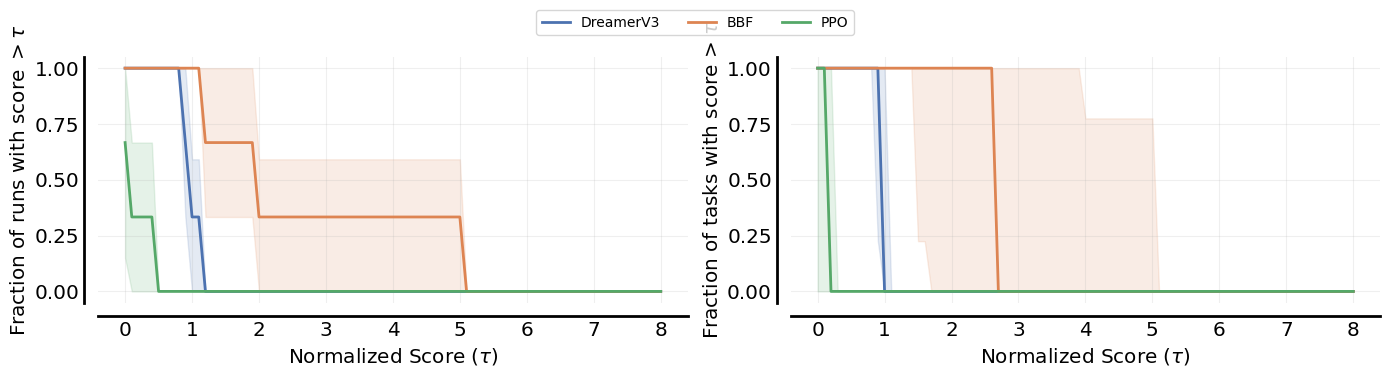
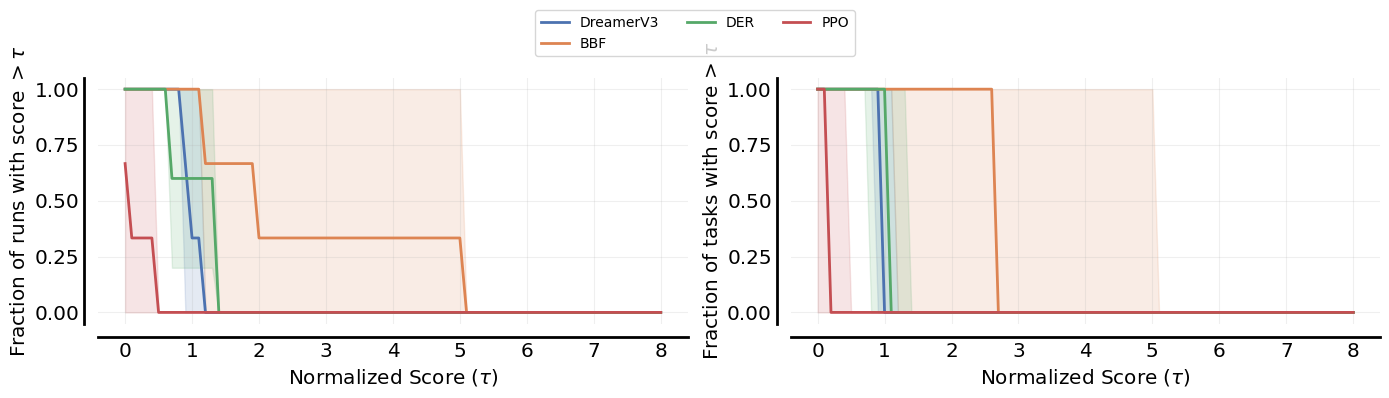
Add DER to the atari100k comparison, mean/std summary rows, drop template-v2
The W&B `template` tag now covers exactly the runs behind the published
benchmark numbers: the superseded 2026-07-31/08-01 sweep (including a broken
DreamerV3/cheetah-run batch) had its tag removed, and `template-v2` is fully
retired from docs and script examples now that every tool already defaults to
`template`.

- scripts/update_algo_results.py: each algorithm README's results table now
  gets a **Mean ± Std** row per (environment, config) group.
- scripts/make_figures.sh: add DER (exp_name `der`) to the atari100k
  comparison group; patch rliable's fixed aggregate-plot row height so a 4th
  algorithm's y-axis labels stop overlapping.
- Refresh algo READMEs, docs/evaluation.md and docs/figures/ from the current
  `template`-tagged runs; add the Atari-100k aggregate figure to README.md.

diff --git a/scripts/update_algo_results.py b/scripts/update_algo_results.py
@@ -21,6 +21,7 @@ from __future__ import annotations
 import argparse
 import os
 import re
+import statistics
 import sys
 from dataclasses import dataclass
 from pathlib import Path
@@ -82,6 +83,7 @@ class ResultRow:
     seed: int | None
     frames: int | None
     eval_return: str
+    eval_return_value: float | None
     notes: str
 
 
@@ -444,6 +446,7 @@ def parse_run(run, registry: list[ExperimentSpec]) -> ResultRow | None:
         seed=trainer_cfg.get("seed"),
         frames=trainer_cfg.get("total_frames"),
         eval_return=format_return(eval_return),
+        eval_return_value=eval_return,
         notes=notes or "—",
     )
 
@@ -454,6 +457,20 @@ def row_to_markdown(row: ResultRow) -> str:
     return (
         f"| {run_cell} | {row.environment} | `{row.config}` | {seed} | "
         f"{format_int(row.frames)} | {row.eval_return} | {row.notes} |"
+    )
+
+
+def summary_row_markdown(environment: str, config: str, values: list[float]) -> str:
+    """A ``**Mean ± Std**`` row summarising one (environment, config) group.
+
+    Population std (``ddof=0``), matching the convention used for the
+    cross-algorithm figures in ``docs/evaluation.md`` / ``make_figures.sh``.
+    """
+    mean = statistics.fmean(values)
+    std = statistics.pstdev(values)
+    return (
+        f"| **Mean ± Std** | {environment} | `{config}` | — | — | "
+        f"**{format_return(mean)} ± {format_return(std)}** | n={len(values)} seeds |"
     )
 
 
@@ -468,7 +485,27 @@ def build_table(rows: list[ResultRow]) -> str:
         )
 
     sorted_rows = sorted(rows, key=lambda r: (r.environment, r.config, r.run_name))
-    body = "\n".join(row_to_markdown(r) for r in sorted_rows)
+
+    lines: list[str] = []
+    group_key: tuple[str, str] | None = None
+    group_values: list[float] = []
+
+    def flush_summary() -> None:
+        if group_key is not None and len(group_values) >= 2:
+            lines.append(summary_row_markdown(*group_key, group_values))
+
+    for row in sorted_rows:
+        key = (row.environment, row.config)
+        if key != group_key:
+            flush_summary()
+            group_key = key
+            group_values = []
+        lines.append(row_to_markdown(row))
+        if row.eval_return_value is not None:
+            group_values.append(row.eval_return_value)
+    flush_summary()
+
+    body = "\n".join(lines)
     return f"{TABLE_HEADER}\n{TABLE_SEPARATOR}\n{body}"
 
 

diff --git a/tests/test_update_algo_results.py b/tests/test_update_algo_results.py
@@ -176,12 +176,60 @@ def test_row_to_markdown():
         seed=42,
         frames=500_100,
         eval_return="500.0",
+        eval_return_value=500.0,
         notes="—",
     )
     md = row_to_markdown(row)
     assert "[dqn_cartpole_2025-01-01](" in md
     assert "`experiment=dqn/gym`" in md
     assert "500,100" in md
+
+
+def _row(environment, config, seed, value, run_name=None) -> ResultRow:
+    return ResultRow(
+        run_name=run_name or f"run-{environment}-{config}-{seed}",
+        run_url="https://wandb.ai/LatentLab/torchrl-hydra-template/runs/abc123",
+        environment=environment,
+        config=config,
+        seed=seed,
+        frames=100_000,
+        eval_return=str(value),
+        eval_return_value=value,
+        notes="—",
+    )
+
+
+def test_build_table_adds_mean_std_summary_row_per_group():
+    rows = [
+        _row("Jamesbond-v5", "experiment=rainbow/atari100k", 1, 243.0),
+        _row("Jamesbond-v5", "experiment=rainbow/atari100k", 2, 232.0),
+        _row("Jamesbond-v5", "experiment=rainbow/atari100k", 3, 221.0),
+        _row("Jamesbond-v5", "experiment=rainbow/atari100k", 4, 267.5),
+        _row("Jamesbond-v5", "experiment=rainbow/atari100k", 5, 240.5),
+    ]
+    table = build_table(rows)
+    assert "**Mean ± Std**" in table
+    assert "240.8 ± 15.4" in table
+    assert "n=5 seeds" in table
+
+
+def test_build_table_summary_row_is_per_environment_config_group():
+    rows = [
+        _row("Jamesbond-v5", "experiment=ppo/ale", 1, 30.0),
+        _row("Jamesbond-v5", "experiment=ppo/ale", 2, 40.0),
+        _row("cheetah-run", "experiment=ppo/dmc", 1, 400.0),
+        _row("cheetah-run", "experiment=ppo/dmc", 2, 600.0),
+    ]
+    table = build_table(rows)
+    assert table.count("**Mean ± Std**") == 2
+    assert "35.0 ± 5.00" in table
+    assert "500.0 ± 100.0" in table
+
+
+def test_build_table_skips_summary_row_for_single_run_group():
+    rows = [_row("CartPole-v1", "experiment=dqn/gym", 1, 500.0)]
+    table = build_table(rows)
+    assert "**Mean ± Std**" not in table
 
 
 def test_replace_results_table():

diff --git a/docs/evaluation.md b/docs/evaluation.md
@@ -122,7 +122,7 @@ DreamerV3 on DMC cheetah-run — at three seeds each, load-balanced across GPUs.
 ./scripts/run_benchmarks.sh --smoke             # tiny budgets; validates every spec
 ./scripts/run_benchmarks.sh --gpus 2,3          # the real sweep
 ./scripts/run_benchmarks.sh --only bbf,tdmpc2   # subset by job name
-./scripts/run_benchmarks.sh --tag template-v2   # own W&B tag for this sweep
+./scripts/run_benchmarks.sh --tag my-sweep      # own W&B tag for this sweep
 ```
 
 Use `--tag` whenever the evaluation protocol has changed since the last sweep.
@@ -154,7 +154,7 @@ env).
 ```shell
 ./scripts/make_figures.sh                                    # every group, W&B tag `template`
 ./scripts/make_figures.sh --group atari100k                  # one comparison group
-./scripts/make_figures.sh --tag template-v2 --full --publish # regenerate docs/figures/
+./scripts/make_figures.sh --full --publish                   # regenerate docs/figures/
 ```
 
 `--full` matters: by default the script runs with openrlbenchmark's own
@@ -182,35 +182,38 @@ sweep's runs together (see [Multi-GPU benchmark sweeps](#multi-gpu-benchmark-swe
 
 ## Benchmark results
 
-Three seeds per algorithm, produced by `./scripts/run_benchmarks.sh --gpus 2,3
---tag template-v2` and plotted with `./scripts/make_figures.sh --tag
-template-v2 --full --publish`. Shaded bands are ±1 std over seeds; every
+Three seeds per algorithm (five for DER), produced by `./scripts/run_benchmarks.sh
+--gpus 2,3` and plotted with `./scripts/make_figures.sh --full --publish` (both
+default to the `template` W&B tag). Shaded bands are ±1 std over seeds; every
 number is the mean of the last 100 logged evaluation episodes.
 
 **Read these as a template smoke test, not as a benchmark claim.** Each suite
 here is a *single* task, so rliable's median / IQM / mean necessarily coincide
 (visible below) and the performance profile is close to degenerate — those
-panels only start carrying information across many tasks. Three seeds on one
-task is also far too few to separate implementations that land close together.
+panels only start carrying information across many tasks. A handful of seeds
+on one task is also far too few to separate implementations that land close
+together.
 
 ### Atari-100k — Jamesbond
 
-|              | DreamerV3      | BBF             | PPO           |
-|:-------------|:---------------|:----------------|:--------------|
-| Jamesbond-v5 | 385.33 ± 38.35 | 825.83 ± 309.25 | 25.67 ± 19.15 |
+|              | DreamerV3      | BBF             | DER            | PPO           |
+|:-------------|:---------------|:----------------|:---------------|:--------------|
+| Jamesbond-v5 | 385.33 ± 38.35 | 825.83 ± 309.25 | 240.80 ± 15.41 | 25.67 ± 19.15 |
 
 ![Atari-100k Jamesbond return](figures/atari100k.png)
 
 100k agent steps (400k game frames), 10-episode evaluations every 10k steps.
 The ordering is the expected one — BBF, the sample-efficiency specialist,
-clears DreamerV3, while PPO sits at random play (29.0 on this game) at a budget
-it was never designed for. BBF's ±309 spread across three seeds is not noise in
-the plot but the task: the official RR2 release reports mean ≈ 1125 over 14
-seeds with min 573 and max 1490 (see
+clears DreamerV3, DER sits below both (Rainbow's extensions minus BBF's
+self-supervised/reset machinery), and PPO sits at random play (29.0 on this
+game) at a budget it was never designed for. BBF's ±309 spread across three
+seeds is not noise in the plot but the task: the official RR2 release reports
+mean ≈ 1125 over 14 seeds with min 573 and max 1490 (see
 [BBF's README](../src/algorithms/bbf/README.md)), so our three seeds
 (1251 / 702 / 524) sit inside that spread with the mean pulled low. The spike
 near 30k is the same effect at a 10-episode measurement — which is why the
-protocol also takes 100 episodes at the end.
+protocol also takes 100 episodes at the end. DER's five seeds (243 / 232 / 221
+/ 267.5 / 240.5) are the tightest of the four, ±15.41.
 
 ![Atari-100k aggregate metrics](figures/atari100k_aggregate.png)
 ![Atari-100k performance profile](figures/atari100k_performance_profile.png)
@@ -223,7 +226,7 @@ random 29.0, human 302.8), so 1.0 is human level.
 ![Atari-100k return vs walltime](figures/atari100k-time.png)
 
 The same curves against wall-clock: at this budget BBF costs ~108 minutes per
-seed on one GPU and DreamerV3 ~95, against PPO's ~5.
+seed on one GPU, DER ~158, and DreamerV3 ~95, against PPO's ~5.
 
 ### DMC Proprio — cheetah-run
 

diff --git a/src/algorithms/dreamer/README.md b/src/algorithms/dreamer/README.md
@@ -213,9 +213,11 @@ runs.
 
 | Run | Environment | Config | Seed | Frames | Eval return | Notes |
 |-----|-------------|--------|------|--------|-------------|-------|
-| [dreamer_Jamesbond_atari100k_200m_2026-08-03_12-04-31](https://wandb.ai/LatentLab/torchrl-hydra-template/runs/wwt2hl3y) | ALE/Jamesbond-v5 | `experiment=dreamer/atari100k environment.task=Jamesbond` | 1 | 110,000 | 222.0 | — |
-| [dreamer_Jamesbond_atari100k_200m_2026-08-03_13-40-08](https://wandb.ai/LatentLab/torchrl-hydra-template/runs/9o2v5b67) | ALE/Jamesbond-v5 | `experiment=dreamer/atari100k environment.task=Jamesbond` | 2 | 110,000 | 195.0 | — |
-| [dreamer_Jamesbond_atari100k_200m_2026-08-03_13-41-35](https://wandb.ai/LatentLab/torchrl-hydra-template/runs/omlhkgde) | ALE/Jamesbond-v5 | `experiment=dreamer/atari100k environment.task=Jamesbond` | 3 | 110,000 | 168.5 | — |
+| [dreamer_Jamesbond_atari100k_200m_2026-08-03_12-04-31](https://wandb.ai/LatentLab/torchrl-hydra-template/runs/wwt2hl3y) | ALE/Jamesbond-v5 | `experiment=dreamer/atari100k` | 1 | 110,000 | 222.0 | — |
+| [dreamer_Jamesbond_atari100k_200m_2026-08-03_13-40-08](https://wandb.ai/LatentLab/torchrl-hydra-template/runs/9o2v5b67) | ALE/Jamesbond-v5 | `experiment=dreamer/atari100k` | 2 | 110,000 | 195.0 | — |
+| [dreamer_Jamesbond_atari100k_200m_2026-08-03_13-41-35](https://wandb.ai/LatentLab/torchrl-hydra-template/runs/omlhkgde) | ALE/Jamesbond-v5 | `experiment=dreamer/atari100k` | 3 | 110,000 | 168.5 | — |
+| **Mean ± Std** | ALE/Jamesbond-v5 | `experiment=dreamer/atari100k` | — | — | **195.2 ± 21.8** | n=3 seeds |
 | [dreamer_cheetah-run_2026-08-03_20-44-09](https://wandb.ai/LatentLab/torchrl-hydra-template/runs/7a2tmns6) | cheetah-run | `experiment=dreamer/dmc` | 1 | 1,000,000 | 687.0 | — |
 | [dreamer_cheetah-run_2026-08-03_23-05-17](https://wandb.ai/LatentLab/torchrl-hydra-template/runs/qw6dmfpk) | cheetah-run | `experiment=dreamer/dmc` | 2 | 1,000,000 | 798.6 | — |
 | [dreamer_cheetah-run_2026-08-03_23-49-29](https://wandb.ai/LatentLab/torchrl-hydra-template/runs/o556nwid) | cheetah-run | `experiment=dreamer/dmc` | 3 | 1,000,000 | 841.2 | — |
+| **Mean ± Std** | cheetah-run | `experiment=dreamer/dmc` | — | — | **775.6 ± 65.0** | n=3 seeds |

diff --git a/src/algorithms/rainbow/README.md b/src/algorithms/rainbow/README.md
@@ -177,4 +177,9 @@ below); evaluation uses true game-over episodes and unclipped rewards too.
 
 | Run | Environment | Config | Seed | Frames | Eval return | Notes |
 |-----|-------------|--------|------|--------|-------------|-------|
-| — | — | — | — | — | — | No finished runs tagged ``template`` yet — see [W&B table](https://wandb.ai/LatentLab/torchrl-hydra-template/table) |
+| [rainbow_Jamesbond_atari100k_2026-08-10_09-28-47](https://wandb.ai/LatentLab/torchrl-hydra-template/runs/nvpamdxd) | ALE/Jamesbond-v5 | `experiment=rainbow/atari100k` | 1 | 100,000 | 243.0 | — |
+| [rainbow_Jamesbond_atari100k_2026-08-10_09-29-13](https://wandb.ai/LatentLab/torchrl-hydra-template/runs/bhg7sd88) | ALE/Jamesbond-v5 | `experiment=rainbow/atari100k` | 2 | 100,000 | 232.0 | — |
+| [rainbow_Jamesbond_atari100k_2026-08-10_12-31-02](https://wandb.ai/LatentLab/torchrl-hydra-template/runs/p142tzbj) | ALE/Jamesbond-v5 | `experiment=rainbow/atari100k` | 3 | 100,000 | 221.0 | — |
+| [rainbow_Jamesbond_atari100k_2026-08-10_12-32-07](https://wandb.ai/LatentLab/torchrl-hydra-template/runs/6zff7y2o) | ALE/Jamesbond-v5 | `experiment=rainbow/atari100k` | 4 | 100,000 | 267.5 | — |
+| [rainbow_Jamesbond_atari100k_2026-08-10_15-23-47](https://wandb.ai/LatentLab/torchrl-hydra-template/runs/yk5wqpew) | ALE/Jamesbond-v5 | `experiment=rainbow/atari100k` | 5 | 100,000 | 240.5 | — |
+| **Mean ± Std** | ALE/Jamesbond-v5 | `experiment=rainbow/atari100k` | — | — | **240.8 ± 15.4** | n=5 seeds |

diff --git a/src/algorithms/ppo/README.md b/src/algorithms/ppo/README.md
@@ -131,6 +131,8 @@ Core and continuous-action details from the
 | [ppo_Jamesbond_2026-08-03_10-01-01](https://wandb.ai/LatentLab/torchrl-hydra-template/runs/79m7ei5q) | ALE/Jamesbond-v5 | `experiment=ppo/ale` | 1 | 100,000 | 52.0 | — |
 | [ppo_Jamesbond_2026-08-03_10-01-13](https://wandb.ai/LatentLab/torchrl-hydra-template/runs/s2ik9uaz) | ALE/Jamesbond-v5 | `experiment=ppo/ale` | 2 | 100,000 | 36.5 | — |
 | [ppo_Jamesbond_2026-08-03_10-06-24](https://wandb.ai/LatentLab/torchrl-hydra-template/runs/hjahokqn) | ALE/Jamesbond-v5 | `experiment=ppo/ale` | 3 | 100,000 | 29.5 | — |
+| **Mean ± Std** | ALE/Jamesbond-v5 | `experiment=ppo/ale` | — | — | **39.3 ± 9.40** | n=3 seeds |
 | [ppo_cheetah-run_2026-08-03_15-13-33](https://wandb.ai/LatentLab/torchrl-hydra-template/runs/riox94hm) | cheetah-run | `experiment=ppo/dmc` | 1 | 1,000,000 | 334.1 | — |
 | [ppo_cheetah-run_2026-08-03_15-17-59](https://wandb.ai/LatentLab/torchrl-hydra-template/runs/mkznx8c5) | cheetah-run | `experiment=ppo/dmc` | 2 | 1,000,000 | 551.9 | — |
 | [ppo_cheetah-run_2026-08-03_16-06-55](https://wandb.ai/LatentLab/torchrl-hydra-template/runs/qpkb0y13) | cheetah-run | `experiment=ppo/dmc` | 3 | 1,000,000 | 503.2 | — |
+| **Mean ± Std** | cheetah-run | `experiment=ppo/dmc` | — | — | **463.1 ± 93.3** | n=3 seeds |

diff --git a/src/algorithms/bbf/README.md b/src/algorithms/bbf/README.md
@@ -204,6 +204,7 @@ python src/train.py experiment=bbf/atari100k \
 | [bbf_Jamesbond_2026-08-03_10-06-24](https://wandb.ai/LatentLab/torchrl-hydra-template/runs/vwbpoxw5) | ALE/Jamesbond-v5 | `experiment=bbf/atari100k` | 1 | 100,000 | 1,251.0 | — |
 | [bbf_Jamesbond_2026-08-03_10-11-48](https://wandb.ai/LatentLab/torchrl-hydra-template/runs/dc2e91w2) | ALE/Jamesbond-v5 | `experiment=bbf/atari100k` | 2 | 100,000 | 702.0 | — |
 | [bbf_Jamesbond_2026-08-03_11-59-19](https://wandb.ai/LatentLab/torchrl-hydra-template/runs/xxxxqws7) | ALE/Jamesbond-v5 | `experiment=bbf/atari100k` | 3 | 100,000 | 524.5 | — |
+| **Mean ± Std** | ALE/Jamesbond-v5 | `experiment=bbf/atari100k` | — | — | **825.8 ± 309.2** | n=3 seeds |
 
 
 *No runs recorded yet. This table is regenerated from W&B runs tagged* `template`

diff --git a/src/algorithms/tdmpc2/README.md b/src/algorithms/tdmpc2/README.md
@@ -157,3 +157,4 @@ Verified result with the official `cheetah-run-1.pt` (2023-06-03) through this p
 | [tdmpc2_cheetah-run_2026-08-03_16-09-04](https://wandb.ai/LatentLab/torchrl-hydra-template/runs/nd3ojze5) | cheetah-run | `experiment=tdmpc2/dmc` | 1 | 1,000,000 | 899.7 | — |
 | [tdmpc2_cheetah-run_2026-08-03_16-57-43](https://wandb.ai/LatentLab/torchrl-hydra-template/runs/b1wqk7c2) | cheetah-run | `experiment=tdmpc2/dmc` | 2 | 1,000,000 | 920.4 | — |
 | [tdmpc2_cheetah-run_2026-08-03_19-51-37](https://wandb.ai/LatentLab/torchrl-hydra-template/runs/gxaltszp) | cheetah-run | `experiment=tdmpc2/dmc` | 3 | 1,000,000 | 901.7 | — |
+| **Mean ± Std** | cheetah-run | `experiment=tdmpc2/dmc` | — | — | **907.3 ± 9.31** | n=3 seeds |

diff --git a/AGENTS.md b/AGENTS.md
@@ -684,7 +684,7 @@ python scripts/update_algo_results.py              # refresh algo README benchma
 # copies PNGs + tables into docs/figures/, which docs/evaluation.md embeds.
 ./scripts/make_figures.sh                          # every group, tag `template`
 ./scripts/make_figures.sh --group atari100k        # one comparison group
-./scripts/make_figures.sh --tag template-v2 --full --publish   # regenerate docs/evaluation.md figures
+./scripts/make_figures.sh --full --publish         # regenerate docs/evaluation.md figures
 pytest tests/test_smoke.py -v
 
 # Evaluate an official TD-MPC2 checkpoint (see src/algorithms/tdmpc2/README.md):

diff --git a/docs/figures/atari100k.md b/docs/figures/atari100k.md
@@ -1,3 +1,3 @@
-|              | DreamerV3      | BBF             | PPO           |
-|:-------------|:---------------|:----------------|:--------------|
-| Jamesbond-v5 | 385.33 ± 38.35 | 825.83 ± 309.25 | 25.67 ± 19.15 |
+|              | DreamerV3      | BBF             | DER            | PPO           |
+|:-------------|:---------------|:----------------|:---------------|:--------------|
+| Jamesbond-v5 | 385.33 ± 38.35 | 825.83 ± 309.25 | 240.80 ± 15.41 | 25.67 ± 19.15 |

diff --git a/README.md b/README.md
@@ -155,6 +155,7 @@ consume directly, so algorithms are comparable on one axis. See
 [docs/evaluation.md](docs/evaluation.md) for the full protocol, the logging
 contract, and benchmark results.
 
+![Atari-100k aggregate metrics](docs/figures/atari100k_aggregate.png)
 ![DMC cheetah-run return](docs/figures/dmc.png)
 
 ## Documentation
